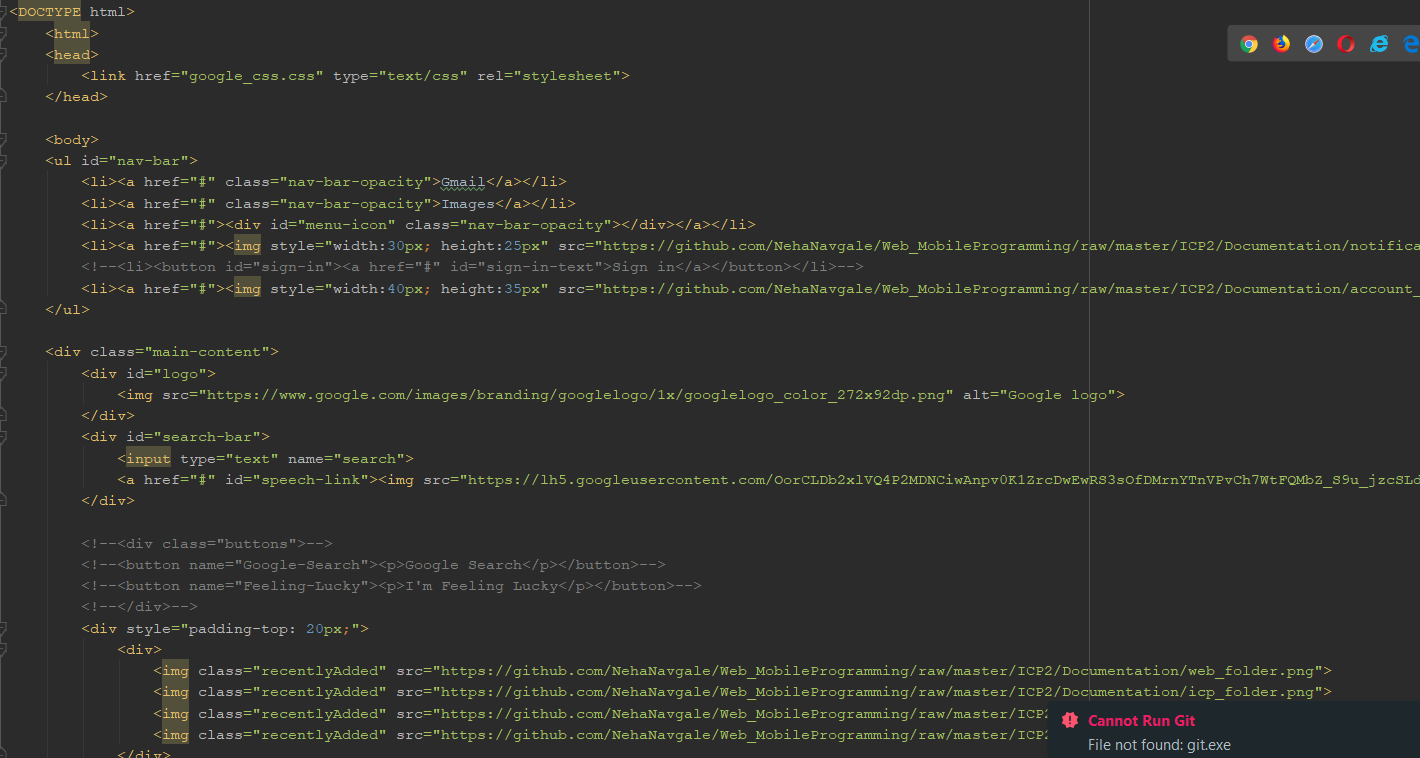
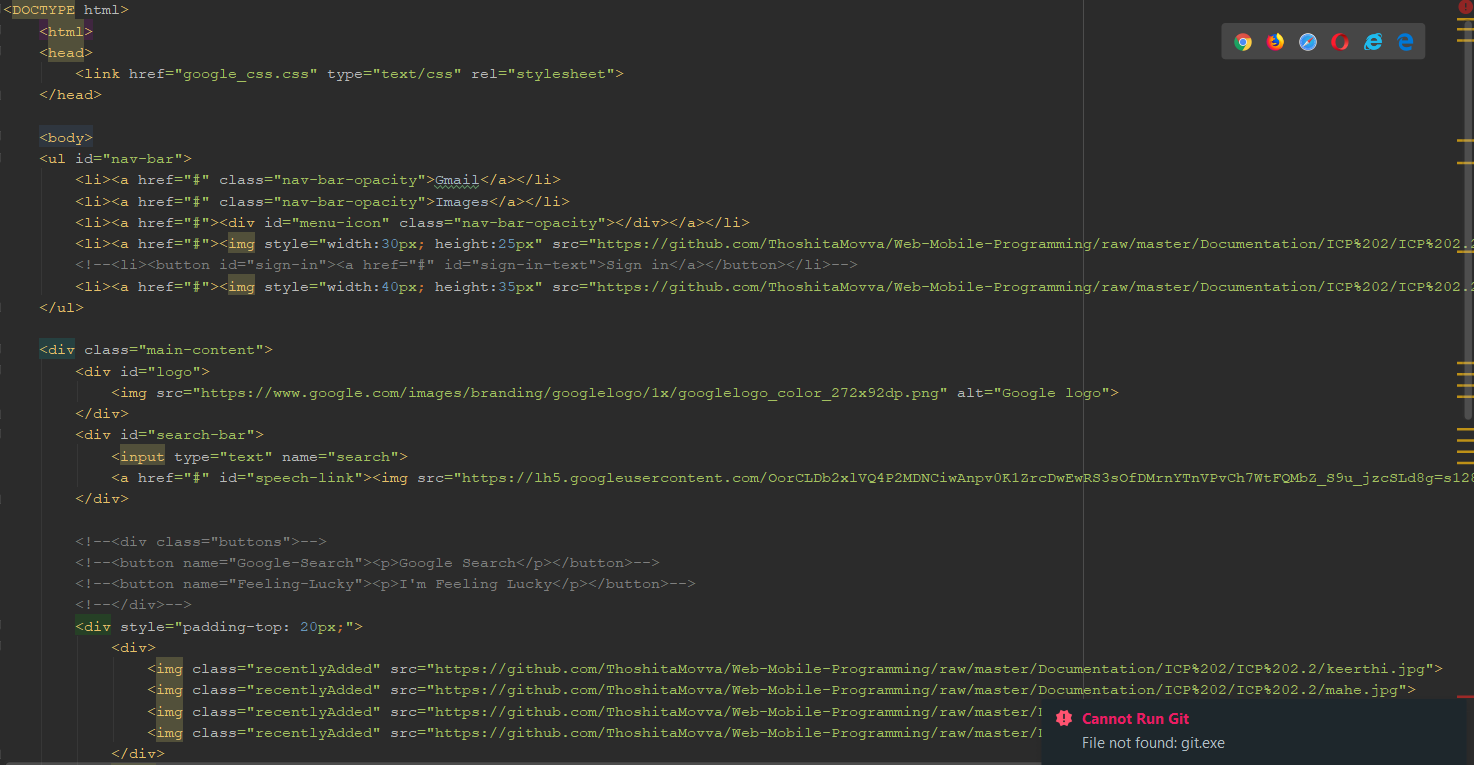
ICP 2

diff --git a/Source/ICP 2/ICP CSS 2.2.html b/Source/ICP 2/ICP CSS 2.2.html
@@ -9,7 +9,7 @@
         <li><a href="#" class="nav-bar-opacity">Gmail</a></li>
         <li><a href="#" class="nav-bar-opacity">Images</a></li>
         <li><a href="#"><div id="menu-icon" class="nav-bar-opacity"></div></a></li>
-        <li><a href="#"><img style="width:30px; height:25px" src="https://github.com/NehaNavgale/Web_MobileProgramming/raw/master/ICP2/Documentation/notification_icon.png"></a></li>
+        <li><a href="#"><img style="width:30px; height:25px" src="https://github.com/ThoshitaMovva/Web-Mobile-Programming/raw/master/Documentation/ICP%202/ICP%202.2/keerthi.jpg"></a></li>
         <!--<li><button id="sign-in"><a href="#" id="sign-in-text">Sign in</a></button></li>-->
         <li><a href="#"><img style="width:40px; height:35px" src="https://github.com/ThoshitaMovva/Web-Mobile-Programming/raw/master/Documentation/ICP%202/ICP%202.2/mahe.jpg"></a></li>
     </ul>
@@ -29,16 +29,16 @@
         <!--</div>-->
         <div style="padding-top: 20px;">
             <div>
-                <img class="recentlyAdded" src="https://github.com/NehaNavgale/Web_MobileProgramming/raw/master/ICP2/Documentation/web_folder.png">
-                <img class="recentlyAdded" src="https://github.com/NehaNavgale/Web_MobileProgramming/raw/master/ICP2/Documentation/icp_folder.png">
-                <img class="recentlyAdded" src="https://github.com/NehaNavgale/Web_MobileProgramming/raw/master/ICP2/Documentation/google_html.png">
-                <img class="recentlyAdded" src="https://github.com/NehaNavgale/Web_MobileProgramming/raw/master/ICP2/Documentation/source_folder.png">
+                <img class="recentlyAdded" src="https://github.com/ThoshitaMovva/Web-Mobile-Programming/raw/master/Documentation/ICP%202/ICP%202.2/keerthi.jpg">
+                <img class="recentlyAdded" src="https://github.com/ThoshitaMovva/Web-Mobile-Programming/raw/master/Documentation/ICP%202/ICP%202.2/mahe.jpg">
+                <img class="recentlyAdded" src="https://github.com/ThoshitaMovva/Web-Mobile-Programming/raw/master/Documentation/ICP%202/ICP%202.1/Output4.PNG">
+                <img class="recentlyAdded" src="https://github.com/ThoshitaMovva/Web-Mobile-Programming/raw/master/Documentation/ICP%202/ICP%202.1/Output2.PNG">
             </div>
             <div>
-                <img class="recentlyAdded" src="https://github.com/NehaNavgale/Web_MobileProgramming/raw/master/ICP2/Documentation/index_html1.png">
-                <img class="recentlyAdded" src="https://github.com/NehaNavgale/Web_MobileProgramming/raw/master/ICP2/Documentation/css1.png">
-                <img class="recentlyAdded" src="https://github.com/NehaNavgale/Web_MobileProgramming/raw/master/ICP2/Documentation/source_folder.png">
-                <img class="recentlyAdded" src="https://github.com/NehaNavgale/Web_MobileProgramming/raw/master/ICP2/Documentation/google_css.png">
+                <img class="recentlyAdded" src="https://github.com/ThoshitaMovva/Web-Mobile-Programming/raw/master/Documentation/ICP%202/ICP%202.3/Cube.png">
+                <img class="recentlyAdded" src="https://github.com/ThoshitaMovva/Web-Mobile-Programming/raw/master/Documentation/ICP%202/ICP%202.1/Output1.PNG">
+                <img class="recentlyAdded" src="https://github.com/ThoshitaMovva/Web-Mobile-Programming/raw/master/Documentation/ICP%202/ICP%202.1/Google.png">
+                <img class="recentlyAdded" src="https://github.com/ThoshitaMovva/Web-Mobile-Programming/raw/master/Documentation/ICP%202/ICP%202.1/Output3.PNG">
             </div>
         </div>
     </div>
